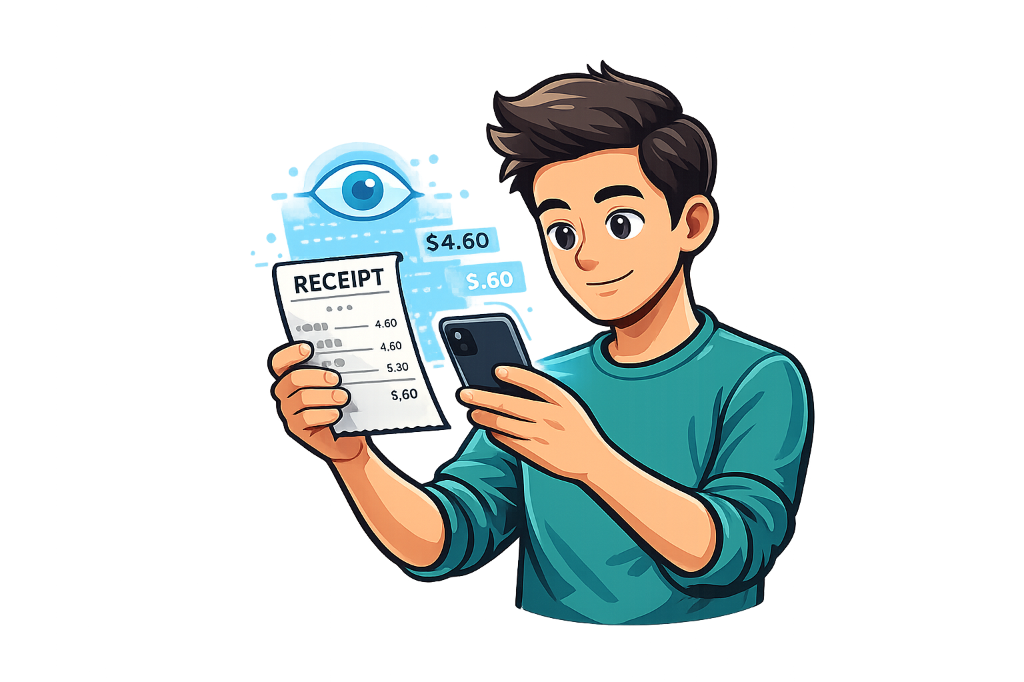
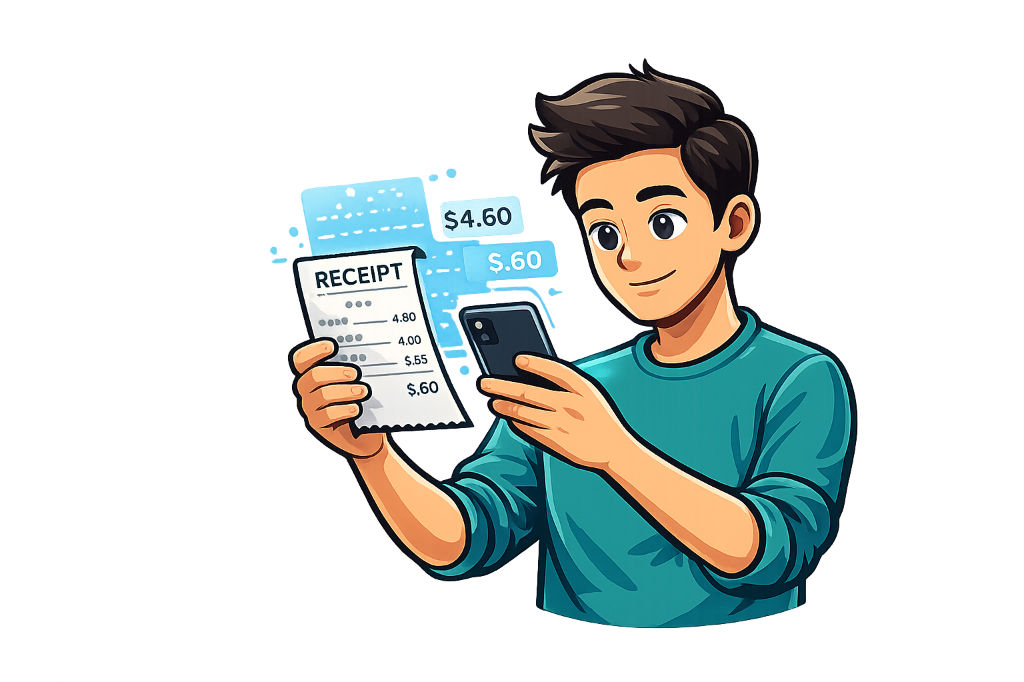
style: update login illustration and increase size by 20%

Changed region(s): [[0.25, 0.0924, 0.8438, 0.9238]]

diff --git a/src/app/page.js b/src/app/page.js
@@ -278,7 +278,7 @@ export default function HomePage() {
     return (
       <div className="app-container">
         <div className="login-container">
-          <img src="/receipt-illustration.png" alt="Expense Tracker" style={{ width: '200px', height: 'auto', objectFit: 'contain' }} />
+          <img src="/receipt-illustration.png" alt="Expense Tracker" style={{ width: '240px', height: 'auto', objectFit: 'contain' }} />
           <h1 className="login-title">Expense Tracker</h1>
           <p style={{ color: 'var(--text-secondary)', fontSize: '0.875rem' }}>
             Enter your PIN to continue
